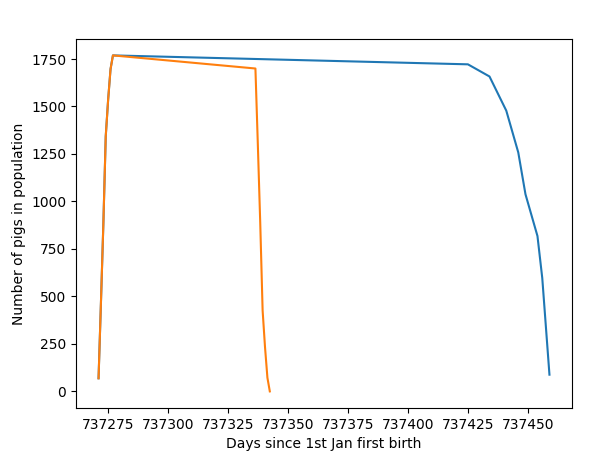
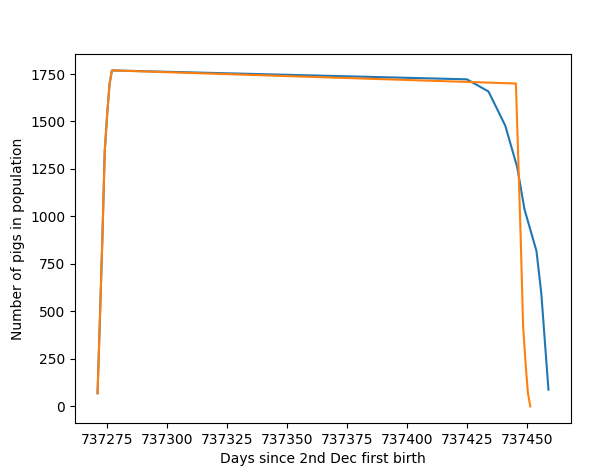
Adjusted growth rate constant to fit data

diff --git a/gombertz_population_prediction.py b/gombertz_population_prediction.py
@@ -4,7 +4,7 @@ import matplotlib.pyplot as plt
 from functions import *
 
 '''
-Help the cholive, this is driving him mad :((((((((((
+Plots the population change against time for 1st Jan weaning. Can be scaled up for all weaning populations
 '''
 
 
@@ -12,7 +12,7 @@ def calc_sale_dates_df(df):
     condition = df["number born/slaughtered"] > 0
     birth_dates = df.loc[condition]
     numerical_dates = df.loc[condition, "numerical date"]
-    days_growing = inverse_gombertz(7, 135, 0.0520)
+    days_growing = inverse_gombertz(7, 135, 0.0195)
 
     pred_numerical_dates = numerical_dates + days_growing
     pred_pop_change = -birth_dates["number born/slaughtered"]
@@ -56,6 +56,6 @@ pred_pop_change_df = calc_sale_dates_df(real_pop_change_df)
 
 plt.plot(real_numerical_dates, real_pop_change)
 plt.plot(pred_pop_change_df["numerical date"], pred_pop_change_df["number born/slaughtered"])
-plt.xlabel('Days since 1st Jan first birth')
+plt.xlabel('Days since 2nd Dec first birth')
 plt.ylabel('Number of pigs in population')
 plt.show()
